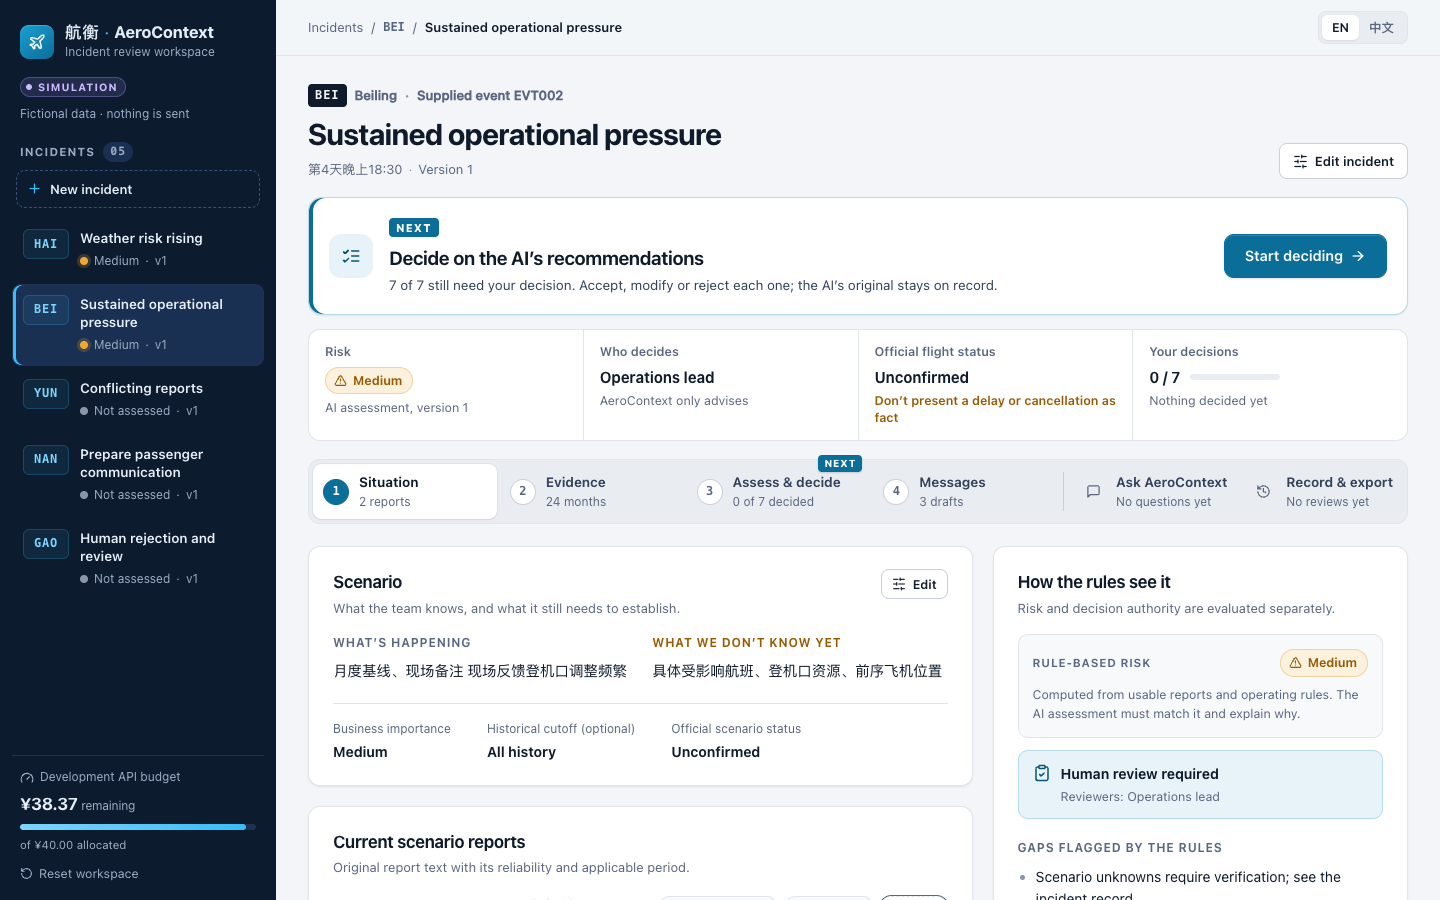
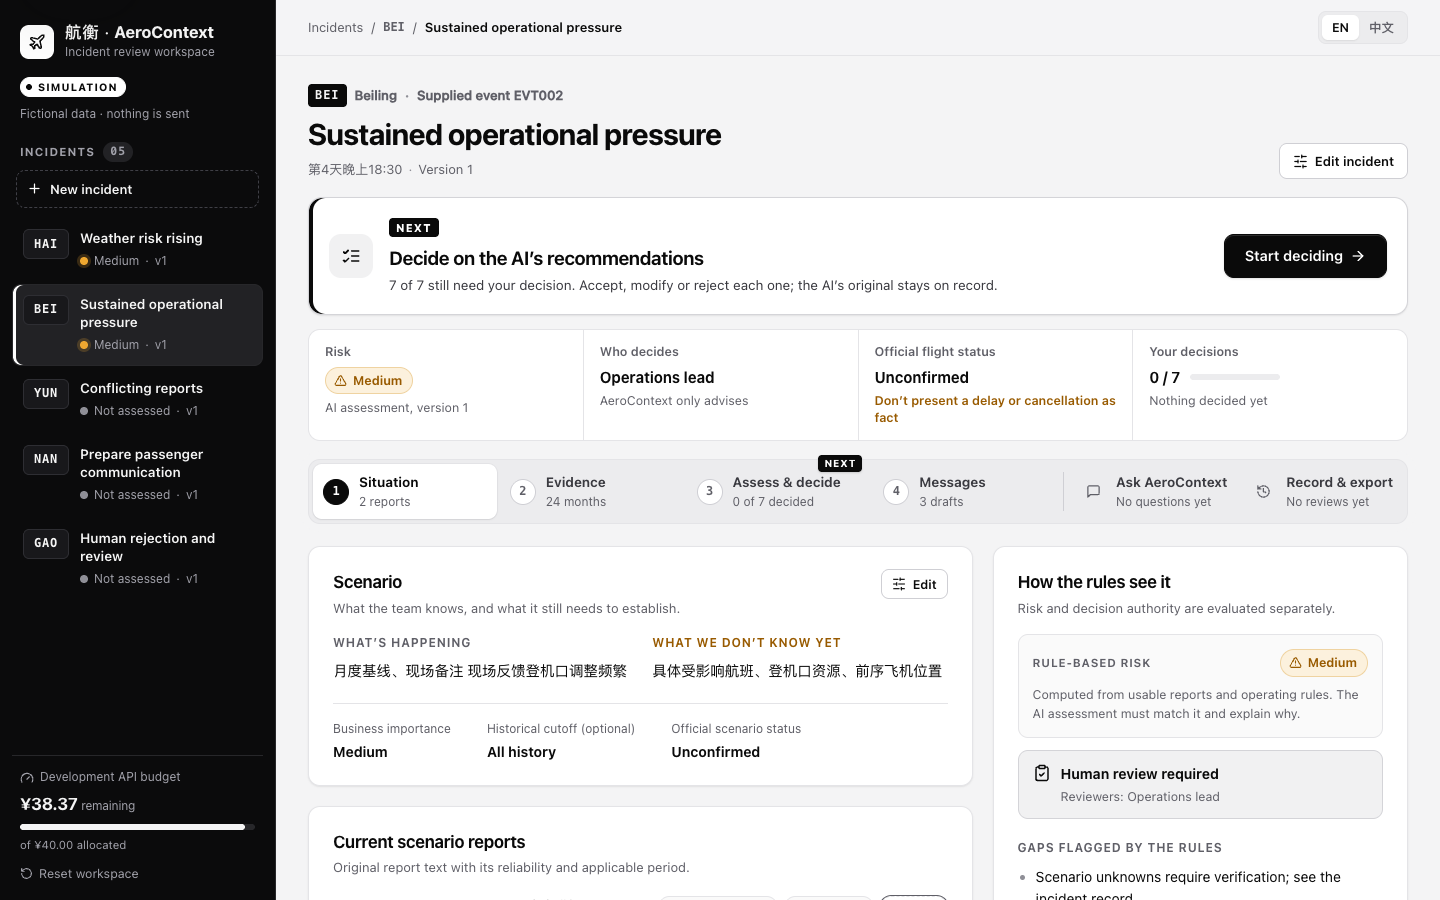
Move to a black-and-white interface
Make the rail black, primary buttons black (white in dark mode), links
black and underlined, and the simulation label a solid black tag. Neutral
greys replace the blue accent on highlights, citations, chat bubbles and
the "fact" marker. Colour is kept only where it carries meaning: risk
levels, warnings, decision states, assumptions and unknowns, flagged data,
and the evidence chart.

diff --git a/src/app/globals.css b/src/app/globals.css
@@ -5,35 +5,35 @@
   color-scheme: light;
   --sans: ui-sans-serif, -apple-system, BlinkMacSystemFont, "Segoe UI", "Helvetica Neue", "PingFang SC", "Hiragino Sans GB", "Microsoft YaHei", "Noto Sans SC", sans-serif;
   --mono: ui-monospace, "SF Mono", SFMono-Regular, Menlo, Consolas, "Liberation Mono", monospace;
-  --bg: #f3f5f8; --surface: #fff; --surface-2: #f7f9fb; --sunken: #e9edf2;
-  --ink: #0f1a2b; --ink-2: #33415a; --muted: #5a6680; --faint: #8b95a8;
-  --line: #e0e5ec; --line-strong: #c8d0db;
-  --accent: #0a6c96; --accent-solid: #0b6e99; --accent-hover: #095b80; --accent-soft: #e7f3f8; --accent-line: #b8dbea; --accent-ink: #075675;
-  --sim: #6a4bd1; --sim-soft: #efebfd; --sim-line: #cfc3f6; --brand: #38bdf8;
+  --bg: #f4f4f5; --surface: #fff; --surface-2: #fafafa; --sunken: #ececee;
+  --ink: #0a0a0a; --ink-2: #3a3a40; --muted: #5f5f67; --faint: #8f8f97;
+  --line: #e4e4e7; --line-strong: #cfcfd4;
+  --accent: #0a0a0a; --accent-solid: #0a0a0a; --accent-hover: #2b2b30; --on-accent: #fff; --accent-soft: #f1f1f2; --accent-line: #d4d4d8; --accent-ink: #0a0a0a;
+  --sim-bg: #0a0a0a; --sim-fg: #fff; --brand: #fff;
   --good: #16754a; --good-soft: #e6f3eb; --good-line: #bfe0cc;
   --caution: #985a00; --caution-soft: #fcf1dd; --caution-line: #efd3a1;
   --danger: #b42318; --danger-soft: #fcecea; --danger-line: #f3c3be;
   --slate: #475569; --slate-soft: #edf0f4; --slate-line: #d3d9e2;
-  --teal: #0d9488; --violet: #7353c9; --chart-release: #6366f1; --chart-peers: #d6336c;
-  --rail-bg: #0d1b2e; --rail-ink: #e7eef8; --rail-muted: #9cacc4; --rail-line: #1f3150; --rail-hover: #142640; --rail-active: #1a3052;
-  --shadow: 0 1px 2px rgb(15 26 43 / .05), 0 1px 1px rgb(15 26 43 / .03);
-  --shadow-lg: 0 24px 64px rgb(13 27 46 / .2), 0 2px 8px rgb(13 27 46 / .08);
+  --chart-completion: #2563eb; --chart-release: #0d9488; --chart-peers: #d6336c;
+  --rail-bg: #0b0b0c; --rail-ink: #f5f5f5; --rail-muted: #a1a1aa; --rail-line: #27272a; --rail-hover: #18181b; --rail-active: #222225;
+  --shadow: 0 1px 2px rgb(10 10 10 / .05), 0 1px 1px rgb(10 10 10 / .03);
+  --shadow-lg: 0 24px 64px rgb(10 10 10 / .18), 0 2px 8px rgb(10 10 10 / .08);
   --radius: 12px;
 }
 @media (prefers-color-scheme: dark) {
   :root {
     color-scheme: dark;
-    --bg: #0b1220; --surface: #121b2c; --surface-2: #162134; --sunken: #0d1525;
-    --ink: #e6edf7; --ink-2: #c2cee0; --muted: #93a3bb; --faint: #67778f;
-    --line: #212d43; --line-strong: #2d3c57;
-    --accent: #5fc3ee; --accent-solid: #0b78a8; --accent-hover: #0d88be; --accent-soft: #10283a; --accent-line: #1d4660; --accent-ink: #8fd6f5;
-    --sim: #b9a6ff; --sim-soft: #231d45; --sim-line: #3d3473;
+    --bg: #0a0a0a; --surface: #141415; --surface-2: #19191b; --sunken: #0e0e0f;
+    --ink: #f4f4f5; --ink-2: #d4d4d8; --muted: #a1a1aa; --faint: #71717a;
+    --line: #27272a; --line-strong: #3f3f46;
+    --accent: #f4f4f5; --accent-solid: #f4f4f5; --accent-hover: #d4d4d8; --on-accent: #0a0a0a; --accent-soft: #1d1d20; --accent-line: #3f3f46; --accent-ink: #f4f4f5;
+    --sim-bg: #f4f4f5; --sim-fg: #0a0a0a;
     --good: #5fcf98; --good-soft: #11261c; --good-line: #1f4a35;
     --caution: #f1b74c; --caution-soft: #2a2112; --caution-line: #574220;
     --danger: #ff8a7c; --danger-soft: #2e1715; --danger-line: #5c2a25;
     --slate: #a9b6ca; --slate-soft: #1c232e; --slate-line: #2f3a49;
-    --teal: #2dd4bf; --violet: #a48bf0; --chart-release: #8b8cf7; --chart-peers: #f06595;
-    --rail-bg: #070f1c; --rail-line: #1a2944; --rail-hover: #0f1c31; --rail-active: #15263f;
+    --chart-completion: #60a5fa; --chart-release: #2dd4bf; --chart-peers: #f472b6;
+    --rail-bg: #000; --rail-line: #1f1f22; --rail-hover: #111113; --rail-active: #1a1a1d;
     --shadow: 0 1px 2px rgb(0 0 0 / .3);
     --shadow-lg: 0 24px 64px rgb(0 0 0 / .55);
   }
@@ -73,25 +73,25 @@ code, .code { font-family: var(--mono); }
 
 /* ---------- Buttons ---------- */
 .primary, .secondary { display: inline-flex; align-items: center; justify-content: center; gap: 7px; border-radius: 8px; white-space: nowrap; font-weight: 600; }
-.primary { background: var(--accent-solid); color: #fff; border: 1px solid var(--accent-solid); min-height: 38px; padding: 8px 15px; font-size: 13.5px; box-shadow: inset 0 1px 0 rgb(255 255 255 / .14), 0 1px 2px rgb(0 0 0 / .12); }
+.primary { background: var(--accent-solid); color: var(--on-accent); border: 1px solid var(--accent-solid); min-height: 38px; padding: 8px 15px; font-size: 13.5px; box-shadow: inset 0 1px 0 rgb(255 255 255 / .14), 0 1px 2px rgb(0 0 0 / .12); }
 .primary:hover:not(:disabled) { background: var(--accent-hover); border-color: var(--accent-hover); }
 .primary.small { min-height: 32px; padding: 5px 11px; font-size: 12.5px; }
 .primary.block { width: 100%; margin-top: 14px; }
-.primary.danger { background: var(--danger); border-color: var(--danger); }
+.primary.danger { background: var(--danger); border-color: var(--danger); color: #fff; }
 .secondary { background: var(--surface); color: var(--ink); border: 1px solid var(--line-strong); min-height: 36px; padding: 7px 13px; font-size: 13px; }
 .secondary:hover:not(:disabled) { background: var(--surface-2); border-color: var(--faint); }
 .secondary.small { min-height: 30px; padding: 4px 10px; font-size: 12.5px; }
-.text-button { display: inline-flex; align-items: center; gap: 5px; padding: 0; border: 0; background: none; color: var(--accent); font-size: 13px; font-weight: 600; }
-.text-button:hover { text-decoration: underline; text-underline-offset: 3px; }
+.text-button { display: inline-flex; align-items: center; gap: 5px; padding: 0; border: 0; background: none; color: var(--ink); font-size: 13px; font-weight: 600; text-decoration: underline; text-underline-offset: 3px; text-decoration-color: var(--line-strong); }
+.text-button:hover { text-decoration-color: currentColor; }
 .text-button.danger { color: var(--danger); }
 .icon-button { display: grid; place-items: center; width: 32px; height: 32px; border: 0; border-radius: 8px; background: transparent; color: var(--muted); flex-shrink: 0; }
 .icon-button:hover { background: var(--sunken); color: var(--ink); }
 .button-row { display: flex; gap: 8px; flex-wrap: wrap; }
 
 /* ---------- Marks: simulation, draft, AI ---------- */
-.sim-mark { display: inline-flex; align-items: center; gap: 6px; background: var(--sim-soft); color: var(--sim); border: 1px solid var(--sim-line); font-size: 11px; font-weight: 750; letter-spacing: .1em; text-transform: uppercase; padding: 2px 8px 2px 7px; border-radius: 999px; line-height: 1.35; white-space: nowrap; }
+.sim-mark { display: inline-flex; align-items: center; gap: 6px; background: var(--sim-bg); color: var(--sim-fg); border: 1px solid var(--sim-bg); font-size: 11px; font-weight: 750; letter-spacing: .1em; text-transform: uppercase; padding: 2px 8px 2px 7px; border-radius: 999px; line-height: 1.35; white-space: nowrap; }
 .sim-mark::before { content: ''; width: 6px; height: 6px; border-radius: 50%; background: currentColor; }
-.rail-inner .sim-mark { background: rgb(167 139 250 / .14); color: #c9bbff; border-color: rgb(167 139 250 / .35); }
+.rail-inner .sim-mark { background: #fff; color: #0a0a0a; border-color: #fff; }
 .sim-mark.compact { font-size: 10.5px; padding: 2px 7px 2px 5px; }
 .draft-mark { display: inline-flex; align-items: center; font-size: 10.5px; font-weight: 800; letter-spacing: .12em; text-transform: uppercase; padding: 1px 7px; border: 1.5px dashed var(--caution); color: var(--caution); background: var(--caution-soft); border-radius: 4px; white-space: nowrap; }
 .ai-mark { display: inline-flex; align-items: center; font-size: 11px; font-weight: 650; padding: 1px 8px; border-radius: 999px; background: var(--accent-soft); color: var(--accent-ink); border: 1px solid var(--accent-line); white-space: nowrap; }
@@ -124,18 +124,14 @@ code, .code { font-family: var(--mono); }
 .citation span:not(.sr-only) { overflow: hidden; text-overflow: ellipsis; white-space: nowrap; }
 .citation svg { flex-shrink: 0; color: var(--faint); }
 .citation:hover { border-color: var(--accent-line); background: var(--accent-soft); color: var(--accent-ink); }
-.citation.report svg { color: var(--accent); }
-.citation.rule svg { color: var(--violet); }
-.citation.operations svg { color: var(--teal); }
-.citation.weather svg { color: var(--accent); }
-.citation.event svg { color: var(--caution); }
 
 /* ---------- Shell ---------- */
 .app-shell { display: grid; grid-template-columns: 276px minmax(0, 1fr); min-height: 100dvh; }
-.desktop-rail { position: sticky; top: 0; height: 100dvh; background: var(--rail-bg); color: var(--rail-ink); overflow: hidden; }
+.desktop-rail { position: sticky; top: 0; height: 100dvh; background: var(--rail-bg); color: var(--rail-ink); overflow: hidden; border-right: 1px solid var(--rail-line); }
 .rail-inner { display: flex; flex-direction: column; height: 100%; padding: 18px 12px 14px; color: var(--rail-ink); background: var(--rail-bg); }
 .brand { display: flex; gap: 11px; align-items: center; padding: 4px 8px; }
-.brand-mark { display: grid; place-items: center; width: 34px; height: 34px; border-radius: 9px; background: linear-gradient(145deg, #1aa3d9, #0b6e99); color: #fff; flex-shrink: 0; box-shadow: inset 0 1px 0 rgb(255 255 255 / .2); }
+.brand-mark { display: grid; place-items: center; width: 34px; height: 34px; border-radius: 9px; background: #fff; color: #0a0a0a; flex-shrink: 0; }
+.startup .brand-mark, .mobile-brand .brand-mark { background: var(--ink); color: var(--bg); }
 .brand-mark.large { width: 52px; height: 52px; border-radius: 14px; }
 .brand strong { display: block; font-size: 16.5px; font-weight: 750; letter-spacing: -.01em; line-height: 1.25; }
 .brand-name { display: inline-flex; flex-wrap: wrap; align-items: baseline; column-gap: 5px; }
@@ -151,14 +147,14 @@ code, .code { font-family: var(--mono); }
 .rail-heading { display: flex; align-items: center; gap: 2px; padding: 0 8px; margin-bottom: 8px; }
 .rail-heading > span { font-size: 11.5px; font-weight: 700; text-transform: uppercase; letter-spacing: .1em; color: var(--rail-muted); }
 .rail-heading .count { background: var(--rail-active); color: var(--rail-muted); }
-.rail-new { display: flex; align-items: center; gap: 8px; margin: 0 4px 10px; font-size: 13px; font-weight: 600; padding: 8px 10px; border-radius: 9px; background: transparent; border: 1px dashed #34507a; color: var(--rail-ink); }
+.rail-new { display: flex; align-items: center; gap: 8px; margin: 0 4px 10px; font-size: 13px; font-weight: 600; padding: 8px 10px; border-radius: 9px; background: transparent; border: 1px dashed #3f3f46; color: var(--rail-ink); }
 .rail-new:hover { background: var(--rail-hover); border-color: var(--brand); }
 .rail-new svg { color: var(--brand); }
 .incident-list { display: flex; flex-direction: column; gap: 2px; overflow-y: auto; flex: 1; min-height: 0; margin: 0 -4px; padding: 0 4px 8px; scrollbar-width: thin; scrollbar-color: var(--rail-line) transparent; }
 .incident-item { display: grid; grid-template-columns: 46px minmax(0, 1fr); gap: 11px; text-align: left; padding: 10px; border-radius: 9px; border: 1px solid transparent; background: transparent; color: var(--rail-ink); }
 .incident-item:hover { background: var(--rail-hover); }
 .incident-item.active { background: var(--rail-active); border-color: var(--rail-line); box-shadow: inset 3px 0 0 var(--brand); }
-.incident-code { display: grid; place-items: center; height: 30px; border-radius: 6px; background: rgb(56 189 248 / .08); color: #7dd3fc; border: 1px solid rgb(56 189 248 / .22); font-family: var(--mono); font-size: 12px; font-weight: 700; letter-spacing: .06em; }
+.incident-code { display: grid; place-items: center; height: 30px; border-radius: 6px; background: #18181b; color: #f5f5f5; border: 1px solid #2e2e33; font-family: var(--mono); font-size: 12px; font-weight: 700; letter-spacing: .06em; }
 .incident-body strong { display: block; font-size: 13.5px; font-weight: 600; line-height: 1.35; }
 .incident-meta { display: flex; align-items: center; gap: 6px; font-size: 12px; color: var(--rail-muted); margin-top: 5px; }
 .rail-footer { margin-top: 8px; padding: 12px 8px 0; border-top: 1px solid var(--rail-line); }
@@ -166,7 +162,7 @@ code, .code { font-family: var(--mono); }
 .budget strong { display: block; font-size: 17px; font-weight: 700; margin: 4px 0 7px; letter-spacing: -.01em; }
 .budget strong span { font-size: 12px; font-weight: 400; color: var(--rail-muted); }
 .meter { display: block; height: 6px; border-radius: 999px; background: var(--rail-line); overflow: hidden; }
-.meter span { display: block; height: 100%; border-radius: inherit; background: linear-gradient(90deg, #7dd3fc, #38bdf8); }
+.meter span { display: block; height: 100%; border-radius: inherit; background: #f5f5f5; }
 .budget-total { display: block; font-size: 11.5px; color: var(--rail-muted); margin-top: 6px; }
 .rail-link { display: inline-flex; align-items: center; gap: 6px; font-size: 12.5px; color: var(--rail-muted); background: none; border: 0; padding: 0; margin-top: 10px; }
 .rail-link:hover { color: var(--rail-ink); text-decoration: underline; text-underline-offset: 3px; }
@@ -230,7 +226,7 @@ code, .code { font-family: var(--mono); }
 .next-step.is-done .next-icon { background: var(--good-soft); color: var(--good); }
 .next-step.is-stale .next-icon, .next-step.is-key .next-icon { background: var(--caution-soft); color: var(--caution); }
 .next-text { flex: 1; min-width: 0; }
-.next-label { display: inline-block; font-size: 11px; font-weight: 800; letter-spacing: .1em; text-transform: uppercase; color: #fff; background: var(--accent-solid); padding: 1px 7px; border-radius: 4px; }
+.next-label { display: inline-block; font-size: 11px; font-weight: 800; letter-spacing: .1em; text-transform: uppercase; color: var(--on-accent); background: var(--accent-solid); padding: 1px 7px; border-radius: 4px; }
 .next-text h2 { font-size: 19px; margin: 6px 0 2px; letter-spacing: -.02em; }
 .next-text p { font-size: 13.5px; color: var(--ink-2); max-width: 72ch; }
 .next-actions { display: flex; align-items: center; gap: 16px; flex-shrink: 0; }
@@ -245,7 +241,7 @@ code, .code { font-family: var(--mono); }
 .glance-note.danger { color: var(--danger); font-weight: 600; }
 .mini-meter, .progress { display: block; height: 6px; border-radius: 999px; background: var(--sunken); overflow: hidden; }
 .mini-meter { flex: 1; max-width: 90px; }
-.mini-meter span, .progress span { display: block; height: 100%; border-radius: inherit; background: var(--good); transition: width .3s; }
+.mini-meter span, .progress span { display: block; height: 100%; border-radius: inherit; background: var(--ink); transition: width .3s; }
 .progress { margin: -6px 0 14px; }
 .stepper { position: sticky; top: 64px; z-index: 15; display: flex; gap: 3px; padding: 4px; margin: 0 0 22px; background: var(--sunken); border: 1px solid var(--line); border-radius: 12px; box-shadow: 0 0 0 8px var(--bg); }
 .step { position: relative; flex: 1 1 0; display: flex; align-items: center; gap: 10px; min-width: 0; text-align: left; padding: 8px 10px; border: 0; border-radius: 9px; background: transparent; color: var(--ink-2); }
@@ -254,14 +250,14 @@ code, .code { font-family: var(--mono); }
 .step[aria-selected=true] { background: var(--surface); color: var(--ink); box-shadow: var(--shadow), 0 0 0 1px var(--line); }
 .step-marker { display: grid; place-items: center; width: 26px; height: 26px; border-radius: 50%; flex-shrink: 0; font-family: var(--mono); font-size: 12px; font-weight: 700; border: 1.5px solid var(--line-strong); color: var(--muted); background: var(--surface); }
 .step.tool .step-marker { border: 0; background: transparent; border-radius: 6px; }
-.step[aria-selected=true] .step-marker { background: var(--accent-solid); border-color: var(--accent-solid); color: #fff; }
+.step[aria-selected=true] .step-marker { background: var(--accent-solid); border-color: var(--accent-solid); color: var(--on-accent); }
 .step.tool[aria-selected=true] .step-marker { background: transparent; color: var(--accent); }
 .step.done .step-marker { background: var(--good); border-color: var(--good); color: #fff; }
 .step-text { display: flex; flex-direction: column; min-width: 0; }
 .step-label { font-size: 13.5px; font-weight: 650; white-space: nowrap; overflow: hidden; text-overflow: ellipsis; }
 .step-status { font-size: 12px; color: var(--muted); white-space: nowrap; overflow: hidden; text-overflow: ellipsis; }
 .stepper-divider { width: 1px; margin: 8px 3px; background: var(--line-strong); flex-shrink: 0; }
-.next-pill { position: absolute; top: -9px; right: 8px; font-size: 10px; font-weight: 800; letter-spacing: .08em; text-transform: uppercase; color: #fff; background: var(--accent-solid); padding: 1px 6px; border-radius: 4px; box-shadow: 0 1px 2px rgb(0 0 0 / .15); }
+.next-pill { position: absolute; top: -9px; right: 8px; font-size: 10px; font-weight: 800; letter-spacing: .08em; text-transform: uppercase; color: var(--on-accent); background: var(--accent-solid); padding: 1px 6px; border-radius: 4px; box-shadow: 0 1px 2px rgb(0 0 0 / .15); }
 .tab-panel:focus { outline: none; }
 
 /* ---------- Cards and layout ---------- */
@@ -328,7 +324,7 @@ code, .code { font-family: var(--mono); }
 .legend span { display: inline-flex; align-items: center; gap: 8px; }
 .legend i { display: inline-block; width: 20px; border-top-width: 2.5px; border-top-style: solid; }
 .legend i.marker, .chart-tip i.marker { width: 9px; height: 9px; border: 0; border-radius: 50%; background: var(--caution); }
-.line-completion { stroke: var(--accent); border-color: var(--accent); }
+.line-completion { stroke: var(--chart-completion); border-color: var(--chart-completion); }
 .line-release { stroke: var(--chart-release); border-color: var(--chart-release); }
 .line-baseline { stroke: var(--faint); border-color: var(--faint); }
 .line-peers { stroke: var(--chart-peers); border-color: var(--chart-peers); }
@@ -368,7 +364,7 @@ tr.anomaly > * { background: var(--caution-soft); }
 tr.anomaly:hover > * { background: var(--caution-soft); }
 tr.anomaly th { box-shadow: inset 3px 0 0 var(--caution); }
 tr.anomaly .delta { color: var(--caution); font-weight: 700; }
-.table-link { display: inline-flex; align-items: center; gap: 4px; border: 0; background: none; padding: 0; font-family: var(--mono); font-size: 12.5px; font-weight: 600; color: var(--accent); }
+.table-link { display: inline-flex; align-items: center; gap: 4px; border: 0; background: none; padding: 0; font-family: var(--mono); font-size: 12.5px; font-weight: 600; color: var(--ink); }
 .table-link:hover { text-decoration: underline; text-underline-offset: 3px; }
 .record-group h3 { display: flex; align-items: center; gap: 8px; font-size: 13.5px; margin: 20px 0 10px; color: var(--ink-2); }
 .record-group:first-of-type h3 { margin-top: 4px; }
@@ -420,11 +416,11 @@ tr.anomaly .delta { color: var(--caution); font-weight: 700; }
 .action-item.first { background: var(--accent-soft); border: 1px solid var(--accent-line); border-radius: 10px; padding: 16px; margin-bottom: 4px; }
 .action-item.first + .action-item { border-top: 0; }
 .action-index { display: grid; place-items: center; width: 30px; height: 30px; border-radius: 8px; border: 1px solid var(--line-strong); font-family: var(--mono); font-size: 12px; font-weight: 700; color: var(--muted); background: var(--surface); }
-.action-item.first .action-index { background: var(--accent-solid); border-color: var(--accent-solid); color: #fff; }
+.action-item.first .action-index { background: var(--accent-solid); border-color: var(--accent-solid); color: var(--on-accent); }
 .action-body { min-width: 0; }
 .action-top { display: flex; gap: 6px; align-items: center; flex-wrap: wrap; margin-bottom: 6px; }
 .action-kind, .first-flag { font-size: 10.5px; font-weight: 700; text-transform: uppercase; letter-spacing: .08em; padding: 2px 7px; border-radius: 4px; background: var(--sunken); color: var(--ink-2); }
-.first-flag { background: var(--accent-solid); color: #fff; }
+.first-flag { background: var(--accent-solid); color: var(--on-accent); }
 .action-text { font-size: 15px; line-height: 1.6; }
 .action-item.first .action-text { font-size: 16px; font-weight: 500; }
 .decision-row { display: flex; align-items: center; justify-content: space-between; gap: 10px; flex-wrap: wrap; margin-top: 12px; padding-top: 12px; border-top: 1px dashed var(--line-strong); }
@@ -454,15 +450,15 @@ tr.anomaly .delta { color: var(--caution); font-weight: 700; }
 .segmented button[aria-pressed=true] { background: var(--surface); color: var(--ink); box-shadow: var(--shadow), 0 0 0 1px var(--line); }
 .segmented button span { font-family: var(--mono); font-size: 11px; color: var(--faint); }
 .segmented.small button { padding: 4px 10px; font-size: 12.5px; }
-.segmented button.fact[aria-pressed=true] span { color: var(--good); }
+.segmented button.fact[aria-pressed=true] span { color: var(--ink); }
 .segmented button.assumption[aria-pressed=true] span { color: var(--caution); }
 .segmented button.unknown[aria-pressed=true] span { color: var(--slate); }
 .reasoning .segmented { margin-bottom: 6px; }
 .claims { list-style: none; padding: 0; margin: 0; }
-.claim { padding: 2px 0 2px 14px; margin: 14px 0; border-left: 3px solid var(--good); }
+.claim { padding: 2px 0 2px 14px; margin: 14px 0; border-left: 3px solid var(--ink); }
 .claim.assumption { border-left-color: var(--caution); }
 .claim.unknown { border-left-color: var(--slate); border-left-style: dashed; }
-.claim-kind { display: inline-flex; align-items: center; gap: 5px; font-size: 11px; font-weight: 700; text-transform: uppercase; letter-spacing: .07em; color: var(--good); }
+.claim-kind { display: inline-flex; align-items: center; gap: 5px; font-size: 11px; font-weight: 700; text-transform: uppercase; letter-spacing: .07em; color: var(--ink); }
 .claim.assumption .claim-kind { color: var(--caution); }
 .claim.unknown .claim-kind { color: var(--slate); }
 .claim p { font-size: 14.5px; line-height: 1.6; margin-top: 3px; }
@@ -488,12 +484,12 @@ tr.anomaly .delta { color: var(--caution); font-weight: 700; }
 .switch-track { position: relative; width: 34px; height: 20px; border-radius: 999px; background: var(--line-strong); transition: background .15s; flex-shrink: 0; }
 .switch-track::after { content: ''; position: absolute; top: 2px; left: 2px; width: 16px; height: 16px; border-radius: 50%; background: #fff; box-shadow: 0 1px 2px rgb(0 0 0 / .25); transition: transform .15s; }
 .switch input:checked + .switch-track { background: var(--accent-solid); }
-.switch input:checked + .switch-track::after { transform: translateX(14px); }
+.switch input:checked + .switch-track::after { transform: translateX(14px); background: var(--on-accent); }
 .switch input:focus-visible + .switch-track { outline: 2px solid var(--accent); outline-offset: 2px; }
 .draft-grid { display: grid; gap: 16px; }
 .draft-grid.three { grid-template-columns: repeat(3, minmax(0, 1fr)); align-items: start; }
-.draft-sheet { --tone: var(--accent); --tone-soft: var(--accent-soft); background: var(--surface); border: 1px solid var(--line); border-top: 4px solid var(--tone); border-radius: 14px; overflow: hidden; box-shadow: var(--shadow); min-width: 0; }
-.draft-sheet.airportCoordination { --tone: var(--teal); --tone-soft: color-mix(in srgb, var(--teal) 12%, var(--surface)); }
+.draft-sheet { --tone: var(--ink); --tone-soft: var(--sunken); background: var(--surface); border: 1px solid var(--line); border-top: 4px solid var(--tone); border-radius: 14px; overflow: hidden; box-shadow: var(--shadow); min-width: 0; }
+.draft-sheet.airportCoordination { --tone: var(--ink-2); --tone-soft: var(--sunken); }
 .draft-sheet.passenger { --tone: var(--caution); --tone-soft: var(--caution-soft); }
 .draft-head { display: flex; justify-content: space-between; align-items: flex-start; gap: 12px; flex-wrap: wrap; padding: 18px 22px 0; }
 .draft-title { display: flex; gap: 12px; align-items: center; }

diff --git a/src/app/layout.tsx b/src/app/layout.tsx
@@ -5,7 +5,7 @@ export const metadata:Metadata={
   description:'A bilingual, evidence-based simulation for reviewing airline disruption incidents.'
 };
 export const viewport:Viewport={
-  themeColor:[{media:'(prefers-color-scheme: light)',color:'#f3f5f8'},{media:'(prefers-color-scheme: dark)',color:'#0b1220'}]
+  themeColor:[{media:'(prefers-color-scheme: light)',color:'#f4f4f5'},{media:'(prefers-color-scheme: dark)',color:'#0a0a0a'}]
 };
 export default function RootLayout({children}:{children:React.ReactNode}) {
   return <html lang="en"><body>{children}</body></html>;
